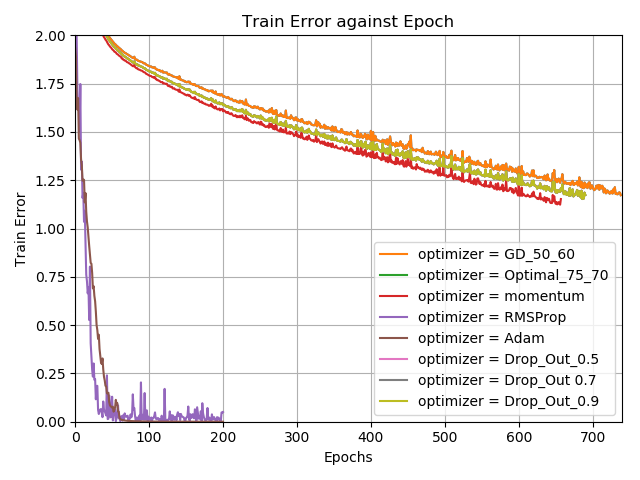
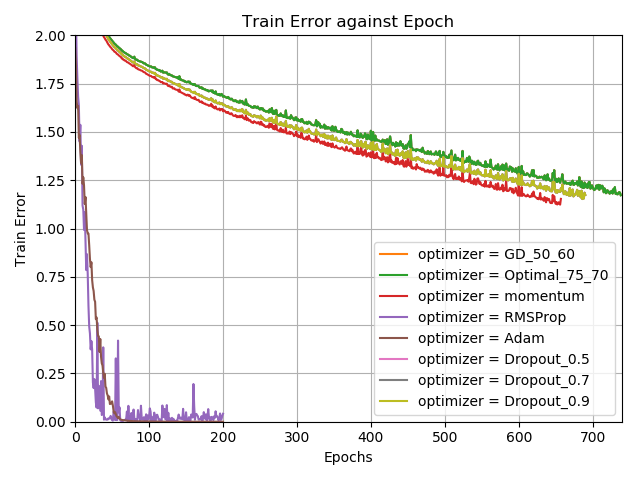
Update for run without part 2

diff --git a/Assignment2/start_project_2a_jp_new.py b/Assignment2/start_project_2a_jp_new.py
@@ -440,6 +440,7 @@ def main():
     plot_feature_map(X, cnn, path_dict)
 
     # =====================Q2 optimal feature map=====================
+    '''
     C1_range = [40,71,10]
     C2_range = [40,71,10]
     optimal_dict = grid_search(trainX, trainY,
@@ -470,6 +471,20 @@ def main():
     # Optimal C1: 75
     # Optimal C2: 70
     # ==================================================
+    '''
+	# to delete
+    C1 = 75
+    C2 = 70
+    model_save_path = 'models/a/2_C1_' + str(C1) + '_C2_' + str(C2)
+    init_dict = arg_dict(model_save_path, C1, C2,optimizer)
+    cnn = CNNClassifer(**init_dict).train(X_train=trainX, Y_train=trainY,
+                                        X_test=testX, Y_test=testY,
+                                        X_val=valX, Y_val=valY)
+    train_err, test_acc, time_taken_one_epoch, early_stop_epoch = cnn.train_err, cnn.test_acc, cnn.time_taken_one_epoch, cnn.early_stop_epoch
+    train_err_dict['Optimal_75_70 test_acc'] = train_err
+    test_acc_dict['Optimal_75_70 test_acc'] = test_acc
+    time_taken_one_epoch_dict['Optimal_75_70 test_acc'] = time_taken_one_epoch
+    early_stop_epoch_dict['Optimal_75_70 test_acc'] = early_stop_epoch
 
     # =====================Q3 optimal feature map=====================
     optimizers = ['momentum','RMSProp','Adam','Dropout_0.5', 'Dropout_0.7', 'Dropout_0.9']
